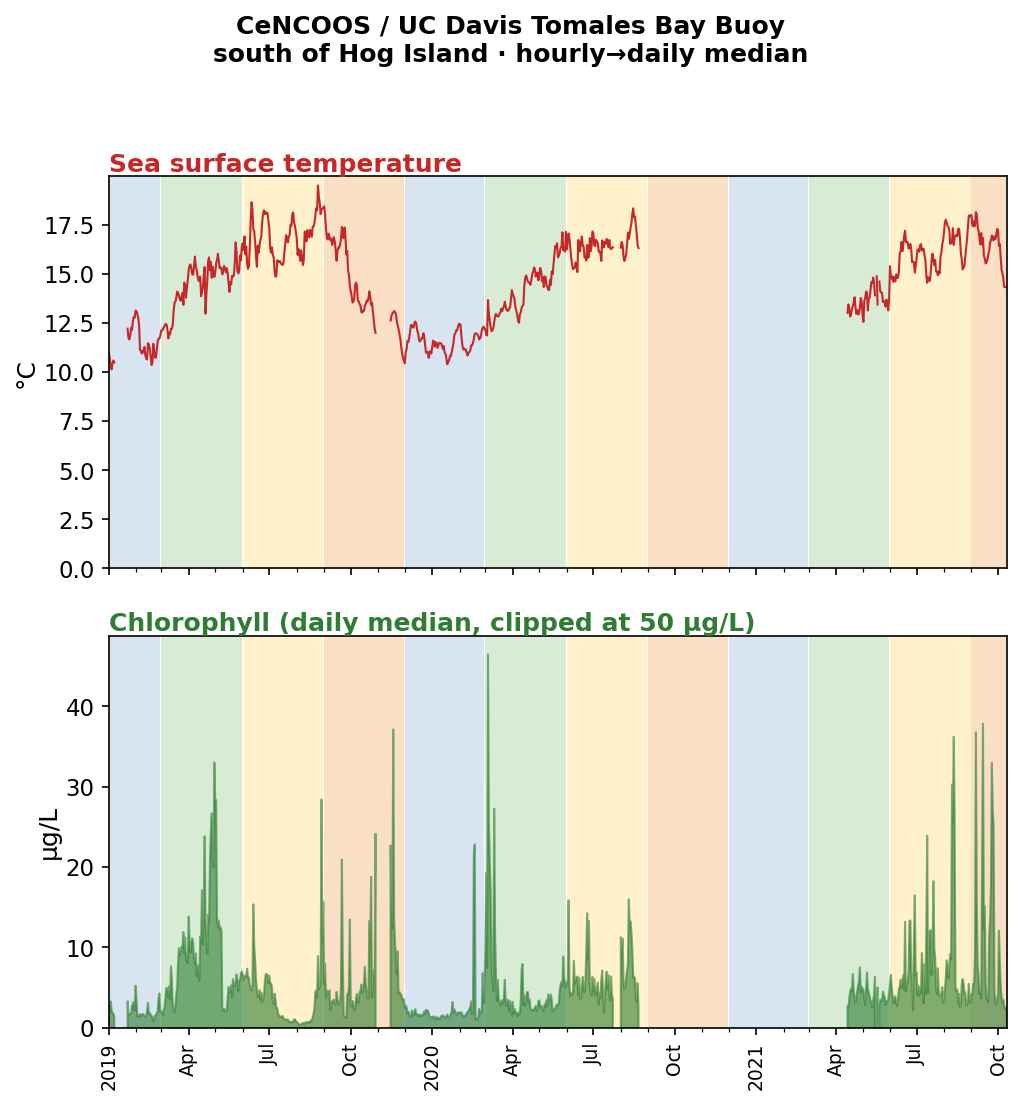
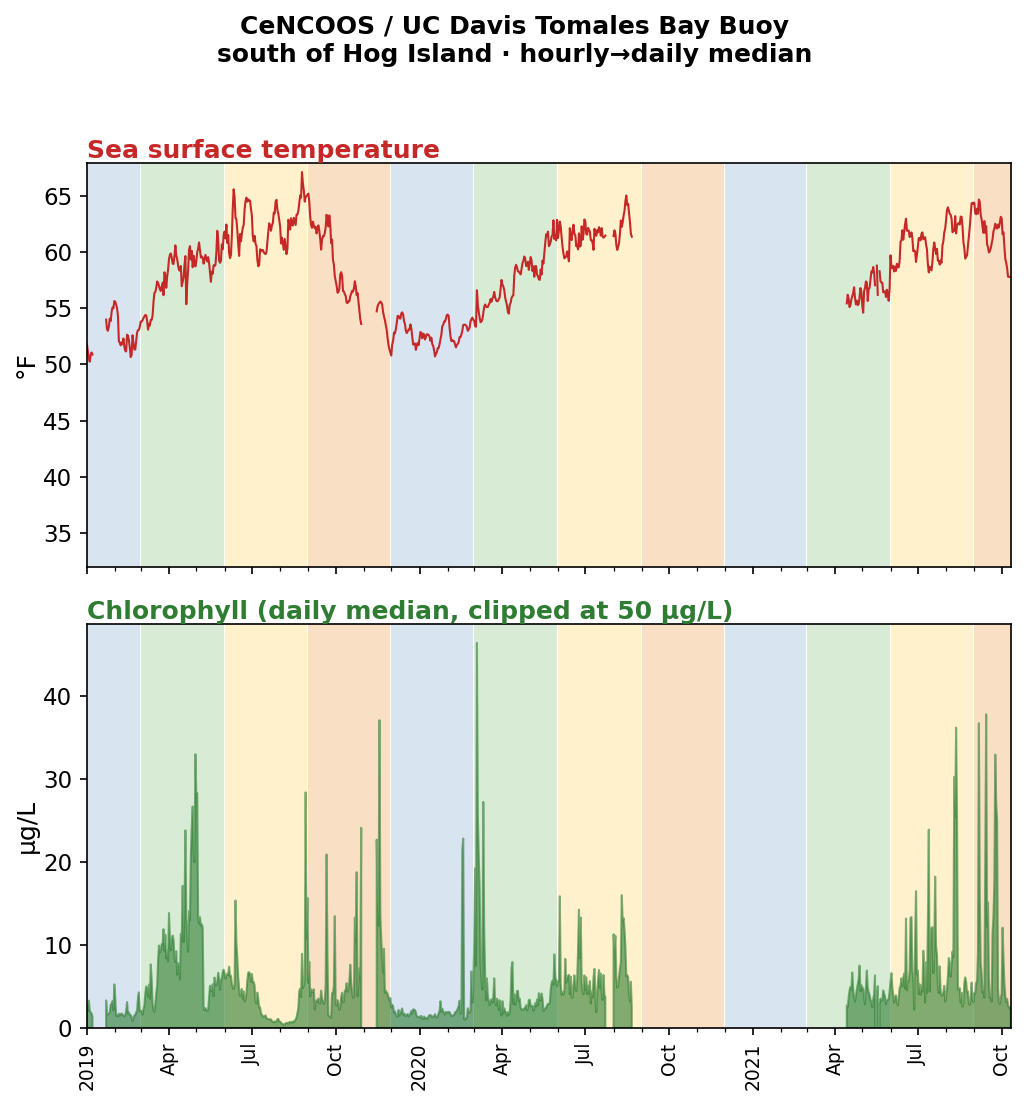
Convert CeNCOOS SST plot from °C to °F

diff --git a/plot_all.py b/plot_all.py
@@ -175,9 +175,10 @@ def plot_cencoos() -> None:
         add_seasons(ax, t0, t1)
         ax.set_xlim(t0, t1)
 
-    axes[0].plot(daily.index, daily["sea_water_temperature"], color="#C62828", lw=1)
-    style_panel(axes[0], "Sea surface temperature", "#C62828", t0, t1, ylabel="°C")
-    axes[0].set_ylim(bottom=0)
+    sst_f = daily["sea_water_temperature"] * 9 / 5 + 32
+    axes[0].plot(daily.index, sst_f, color="#C62828", lw=1)
+    style_panel(axes[0], "Sea surface temperature", "#C62828", t0, t1, ylabel="°F")
+    axes[0].set_ylim(bottom=32)
 
     axes[1].fill_between(chl.index, chl, alpha=0.6, color="#2E7D32")
     style_panel(axes[1], "Chlorophyll (daily median, clipped at 50 µg/L)", "#2E7D32", t0, t1, ylabel="µg/L")
